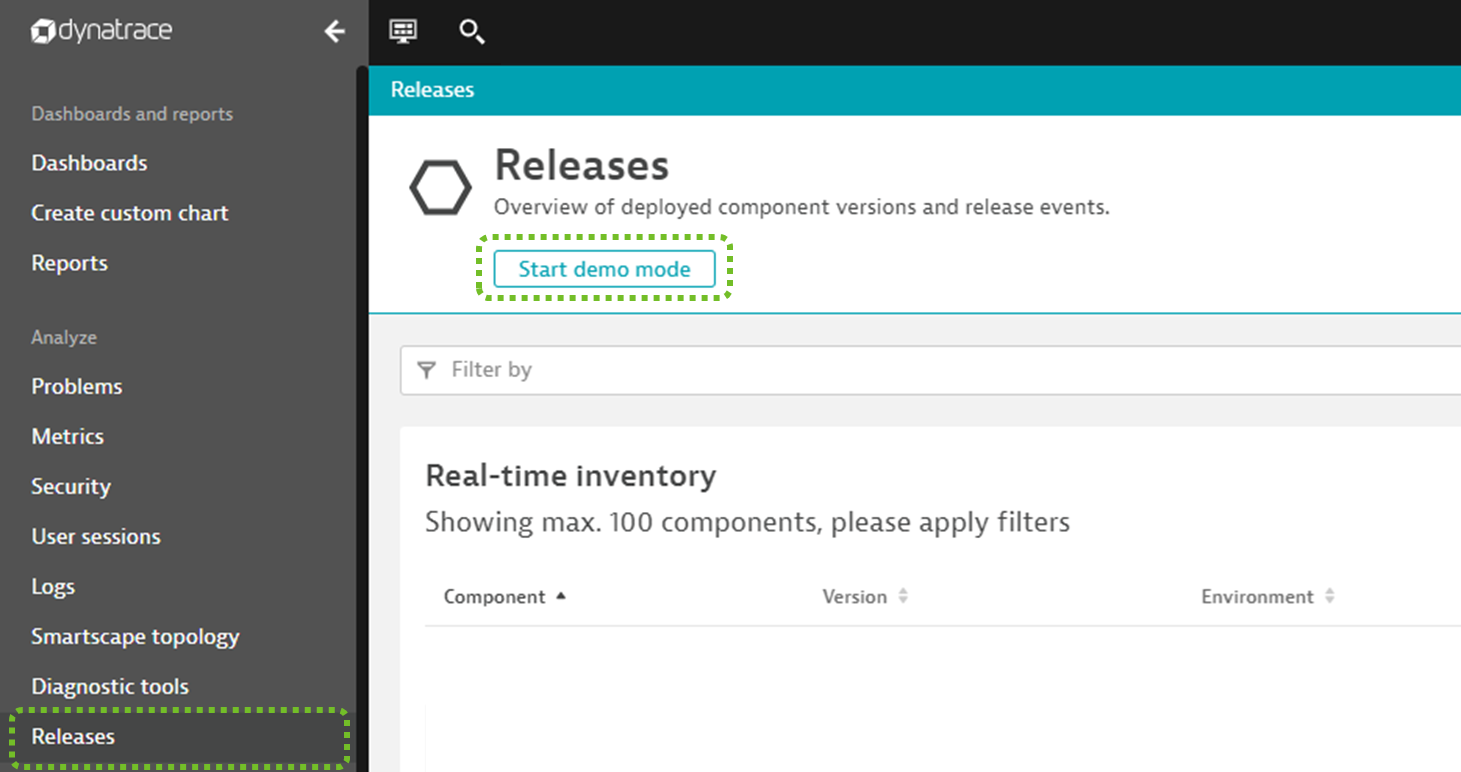
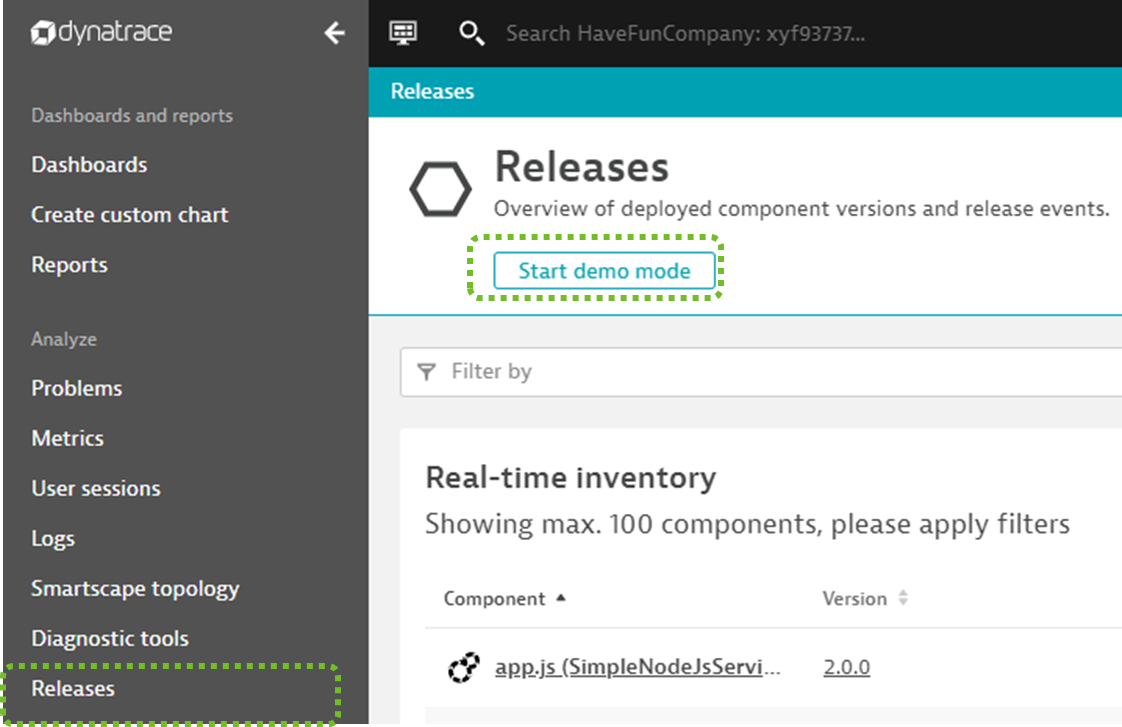
updates

diff --git a/progressivedelivery/content/03_progressive_delivery_in_action/01_deploy_microservices_using_keptn/index.md b/progressivedelivery/content/03_progressive_delivery_in_action/01_deploy_microservices_using_keptn/index.md
@@ -1,0 +1,107 @@
+## Deploy a Microservice with Keptn
+
+In your bastion host navigate to the directory ~/perform-2021-hotday/progressivedelivery. This directory contains all files relevant for the complete hotday.
+
+```bash
+(bastion)$ cd ~/perform-2021-hotday/progressivedelivery
+```
+
+There are several bash scripts prefixed with *hot_* that we will be using for our excercises when deploying apps.
+Lets execute hot_getinfo.sh as it will give us all relevant informaiton and links for our excercises:
+```bash
+(bastion)$ ./hot_getinfo.sh
+===============================================================================
+Here are all the useful URLs and tokens you will need for the HOTDAY
+===============================================================================
+Keptn Bridge URL: http://keptn.xxxx.dynatrace.training/bridge
+Keptn Bridge Username / Password: admin / YYYYYYYYYYYYYYYYYYYYY
+Deployed services will be available under
+  - Staging:    http://simplenode.studentxxx-staging.keptn.xxx.dynatrace.training
+  - Production: http://simplenode.studentxxx-prod.keptn.xxx.dynatrace.training
+
+===============================================================================
+Dynatrace Tenant Url: https://abc12345.sprint.dynatracelabs.com
+Dynatrace Username / Password: see it in Dynatrace University
+
+===============================================================================
+For some of the excercises you need the Dynatrace API token in the DT_API_TOKEN Env Variable
+To get this - simply run the following command:
+export DT_API_TOKEN=YYYYYYYYYYYYYYYYYYY
+```
+
+Every student in the HOT class was assigned an id which we will use to differentiate our deployments. We have ids such as "Student001", "Student002", ...
+If your StudentID showed up as empty in the output of hot_getinfo.sh then set it to the name you were given by the trainer
+```bash
+(bastion)$ export STUDENTID=studentxxx
+```
+
+You can run hot_getinfo.sh to validate!
+
+### Step 1: Create Keptn Project
+
+In our HOT class we are using Keptn (www.keptn.sh) to deploy a microservice in a staging and then production environment.
+If you want to learn more about Keptn feel free to look at https://tutorials.keptn.sh or watch some of the [Keptn related Dynatrace Performance Clinics on YouTube](https://bit.ly/oneagenttutorials)
+
+Keptn is organized in projects and our goal is for every student to create a Keptn project using the Student ID as the project name.
+To make things easier we can execute the hot_createkeptnproject.sh script like this:
+```bash
+(bastion)$ ./hot_createkeptnproject.sh $STUDENTID
+```
+
+This will take a couple of seconds - but - once done we should be able to see the Keptn project in the Keptns Bridge.
+You get the Keptn's Bridge URL, username and password from the hot_getinfo.sh output!
+
+![](../../../assets/images/03_keptn_bridge_project_overview.png)
+
+
+### Step 2: Deploy version 1
+
+As we have a Keptn project that is configured for staging and production we can start deploying version 1 of our sample node.js based microservice.
+We can use the script hot_deploy.sh by passing in our studentid and the version we want to deploy. We start with version 1 which means we can call the script like this
+```bash
+(bastion)$ ./hot_deploy.sh $STUDENTID 1
+```
+
+The first deployment will take about a minute or two as Keptn internally uses Helm for deployment and it needs to do some initialization work.
+Once the script completes we can validate in the Keptns bridge on whether the service was deployed into staging. Simply click on your project and explore the environment screen where you get an overview of all deployments per stage.
+
+![](../../../assets/images/03_keptn_environment_stagingdeploy.png)
+
+You can also open the link to the deployed service right next to the name *simplenode* as highlighted in the screenshot above.
+The application is not fancy - but - it does its job for our purpose
+
+![](../../../assets/images/03_simplenode_app_browser.png)
+
+### Step 3: Exploring whats deployed on k8s
+
+Keptn is really just used to safely deploy our microservice into k8s. Keptn automatically creates namespaces for each stage in each project to ensure that all our services are nicely separated. To see what this looks like we can execute a kubectl get ns that will list all namespaces:
+```bash
+(bastion)$ kubectl get ns
+NAME                 STATUS   AGE
+default              Active   6d16h
+dynatrace            Active   5d6h
+istio-system         Active   6d16h
+keptn                Active   6d16h
+kube-node-lease      Active   6d16h
+kube-public          Active   6d16h
+kube-system          Active   6d16h
+student001-prod      Active   4d18h
+student001-staging   Active   4d18h
+student002-prod      Active   4d
+student002-staging   Active   4d
+student003-prod      Active   4d
+student003-staging   Active   4d
+...
+```
+
+The interesting ones are our studentxxx-staging and studentxxx-prod. If you want to see more feel free to get the list of pods in your specific namespaces:
+```bash
+(bastion)$ kubectl get pods -n studentxxx-staging
+```
+
+### Step 4: Keptn pushes version to production
+
+After deploying the service into staging Keptn first executes some tests and then evaluates both test results and SLOs (Service Level Objectives).
+If the SLOs are met Keptn will promote this version to production. The goal of this HOT class is not to explore Keptn - but - if you are interested walk through some of the tutorials on https://tutorials.keptn.sh
+
+For now - we are done here as our main objective is not Keptn - but seeing how Dynatrace now helps us understand who deployed which service in which version into which environment!

diff --git a/progressivedelivery/content/03_progressive_delivery_in_action/03_how_version_awareness_works/index.md b/progressivedelivery/content/03_progressive_delivery_in_action/03_how_version_awareness_works/index.md
@@ -1,0 +1,36 @@
+## Insights into Version Awareness
+
+Dynatrace's Real time inventory view is fueled by its new *Version detection* capability.
+If you are interested in all the details please have a look at [Version detection strategies](https://www.dynatrace.com/support/help/how-to-use-dynatrace/release-monitoring/version-detection-strategies/)
+
+Essentially there are three sources of version meta data
+
+### For Kubernetes: Labels & Annotations
+
+Dynatrace follows the [k8s Recommended Labels](https://kubernetes.io/docs/concepts/overview/working-with-objects/common-labels/) using
+* **Version** from `app.kubernetes.io/version` 
+* **Application** from `app.kubernetes.io/part-of` 
+
+Additionally it takes
+* **Environment** from the k8s namespace
+* **Component** from the name of the Process Group Instance
+
+In order for Dynatrace to import k8s labels and annotations please follow the instructions on [Organize Kubernetes deployments by tags](https://www.dynatrace.com/support/help/technology-support/cloud-platforms/kubernetes/other-deployments-and-configurations/leverage-tags-defined-in-kubernetes-deployments/) 
+
+The k8s environment we are using in the HOT class has enabled OneAgent to pull this data from our staging, production and keptn namespaces.
+
+### For any process: Environment Variables
+
+Version awareness also works for any type of process that doesnt live in k8s. Here Dynatrace looks for 3 specific environment variables on that process:
+* **Version** from DT_APPLICATION_RELEASE_VERSION 
+* **Application** from DT_APPLICATION_NAME
+* **Environment** DT_APPLICATION_ENVIRONMENT
+
+Additionally it takes
+* **Component** from the name of the Process Group Instance
+
+### For any process: Version from Deployment Events
+
+A third option exists which is related to [Dynatrace Deployment Events](https://www.dynatrace.com/support/help/how-to-use-dynatrace/problem-detection-and-analysis/basic-concepts/event-types/info-events/#deployment)
+
+If your deployment automation, e.g: Jenkins, GitLab, Azure DevOps, Keptn, Harness ... can send a custom deployment event to the Dynatrace Process Group Instance, Dynatrace will use the Version field of that event for the actual version!

diff --git a/progressivedelivery/content/03_progressive_delivery_in_action/04_deploy_version_2_using_keptn/index.md b/progressivedelivery/content/03_progressive_delivery_in_action/04_deploy_version_2_using_keptn/index.md
@@ -1,0 +1,25 @@
+## Deploy version 2 with Keptn
+
+We all should have version 1 of our microservice deployed in staging and by now also in production.
+Now - lets try to deploy more versions and explore whats happening
+
+### Step 1: Deploy version 2
+
+Just as we did before we use the hot_deploy.sh to deploy a new version. Now we deploy version 2
+```bash
+(bastion)$ ./hot_deploy.sh $STUDENTID 2
+```
+
+You will be able to watch Keptn deploy version 2 into staging, then run tests and then most likely stop version 2 from entering production. 
+Why? Because Version 2 has a built in high error rate which causes Keptn's SLO-based Quality Gate to stop it. 
+For our purposes this is OK as we are just intersted in deploying a new version into an environment and then validating whether Dynatrace also shows that same real time inventory view for us.
+
+
+**Learn more about SLO-based Quality Gates**
+SLO-based Quality Gates are however very powerful and important in Progressive Delivery. Thats why I encourage you to explore Keptn Quality Gates which is now also available as part of Dynatrace`s Cloud Automation Solution for Managed and soon for SaaS.
+For more information also watch [Building an SLO-based Quality Gate in 5 Minutes with Dynatrace & Keptn](https://www.youtube.com/watch?v=650Gn--XEQE&list=PLqt2rd0eew1YFx9m8dBFSiGYSBcDuWG38&index=7&t=1s)
+
+
+### Step 2: Validate
+
+Validate that Dynatrace also shows the correct version in your staging environment part of your application.

diff --git a/progressivedelivery/content/03_progressive_delivery_in_action/02_validate_release_inventory/index.md b/progressivedelivery/content/03_progressive_delivery_in_action/02_validate_release_inventory/index.md
@@ -1,0 +1,21 @@
+## Excercise on Live Data
+
+As every student just started deploying a microservices into k8s which is monitored by Dynatrace we should soon start seeing an overview of all deployed services in the Dynatrace Release Inventory screen.
+
+To explore that data lets navigate back to the Release view in Dynatrace and now turn off Demo Mode!
+
+![](../../../assets/images/03_release_stop_demo_mode.png)
+
+What we should see is a list of all monitored process group instances that reflect the deployed microservices. Each entry in the table should also show the actual version, environment and application next to it.
+
+![](../../../assets/images/03_release_inventory_with_keptn_deployments
+.png)
+
+The way things are set up right now is that environment reflects the k8s namespace, e.g: student004-staging where the application reflects the keptn project, e.g: student004
+This information is extracted from metadata that Dynatrace OneAgent extracts from the monitored processes or from deployment events. More on this in the next chapter.
+
+### Excercise
+Before we go on - lets answer a couple of questions based on live data. Can you find out
+1. How many students have already deployed into staging?
+1. Has anyone already deployed into production?
+1. Did everyone follow instructions and deployed version 1?

diff --git a/progressivedelivery/content/03_progressive_delivery_in_action/05_deploy_version_3_blue_green/index.md b/progressivedelivery/content/03_progressive_delivery_in_action/05_deploy_version_3_blue_green/index.md
@@ -1,0 +1,19 @@
+## Deploy version 3 with Keptn
+
+Now we deploy version 3 which should have no issues making it into production.
+Whats different to version 1 is that in this case version 3 will first be deployed as a *Canary* next to the old version that is currently in production.
+Once that *Canary* gets validated by Keptn it will be switched to become the main version. 
+
+### Step 1: Deploy version 3
+
+Just as we did before we use the hot_deploy.sh to deploy a new version. Now we deploy version 3
+```bash
+(bastion)$ ./hot_deploy.sh $STUDENTID 3
+```
+
+You will be able to watch Keptn deploy version 3 into staging, then run tests and then hopefully pass the quality gate to make it into production!
+
+
+### Step 2: Validate
+
+Validate that Dynatrace also shows the correct version in your staging and production environment part of your application.

diff --git a/progressivedelivery/content/01_exploring_release_inventory_demo_mode/02_explore_release_inventory_view/index.md b/progressivedelivery/content/01_exploring_release_inventory_demo_mode/02_explore_release_inventory_view/index.md
@@ -6,7 +6,7 @@ There are 4 major sections on the release inventory screen:
 1. Issue tracking information based on filter
 1. Release events based on filter
 
-![](../../assets/images/01_release_inventory_sections.png)
+![](../../../assets/images/01_release_inventory_sections.png)
 
 **ATTENTION DEMO MODE**
 In demo mode the filter only applies to the *Real-time inventory* section. The issue tracking and release events will always show the same demo data.

diff --git a/progressivedelivery/tictactoejava/README.md b/progressivedelivery/tictactoejava/README.md
@@ -20,4 +20,4 @@ java TicTacToeAI.java
 export DT_APPLICATION_RELEASE_VERSION=1
 export DT_APPLICATION_NAME=tictactoe
 export DT_APPLICATION_ENVIRONMENT=gameenvironment
-java TicTacToeAI.java
+java TicTacToeAI

diff --git a/progressivedelivery/testconsoleapp/readme.md b/progressivedelivery/testconsoleapp/readme.md
@@ -1,0 +1,3 @@
+# Testconsole app
+
+This is another simple app that could be used to deploy either on an OS or in a container to experiment with Dynatrace's Release Inventory feature

diff --git a/progressivedelivery/content/01_exploring_release_inventory_demo_mode/03_excercise/index.md b/progressivedelivery/content/01_exploring_release_inventory_demo_mode/03_excercise/index.md
@@ -1,4 +1,4 @@
-## Excercise
+## Excercise on Demo Data
 
 We just learned how to navigate through the demo data. You should now be able to answer the following questions_
 
